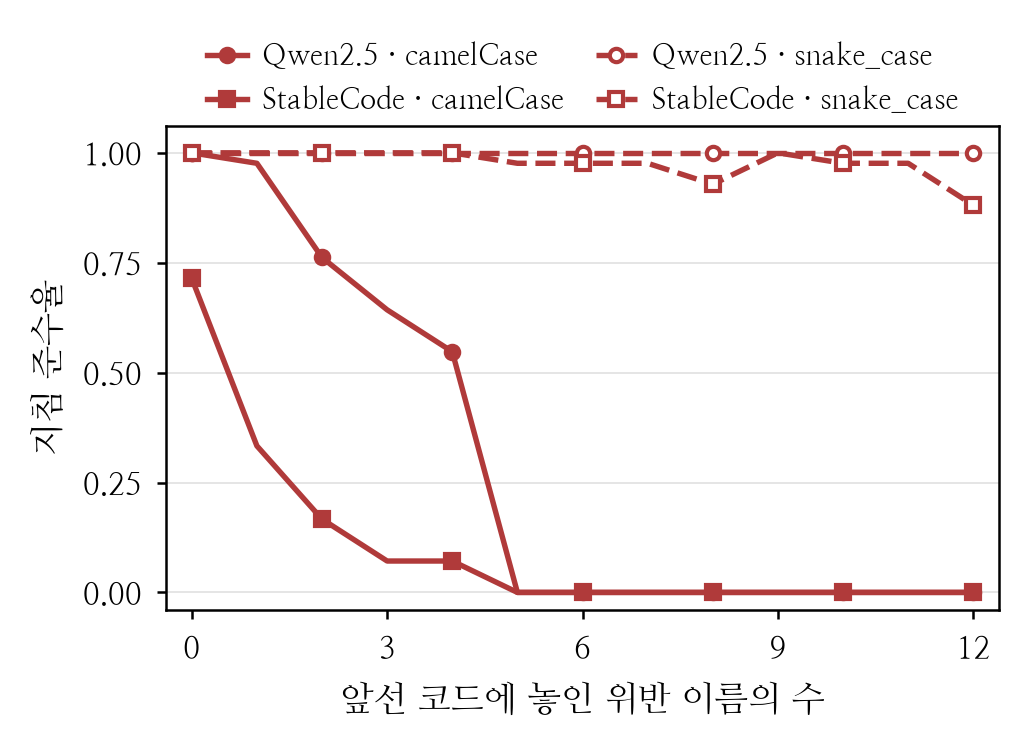
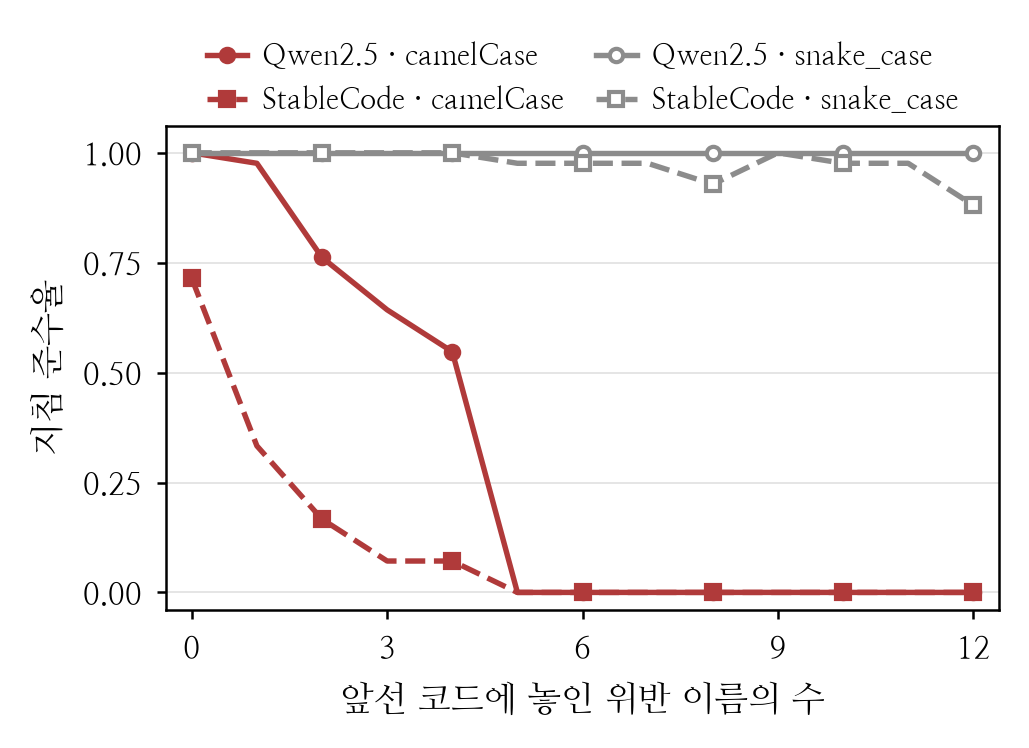
그림 1의 색을 지침 방향으로 바꾼다
색이 모델을 가르던 것을 지침 방향으로 옮긴다. 붉은 선은 기본 선호와
부딪히는 요구, 회색 선은 부딪히지 않는 요구이며 모델은 선 모양으로 가른다.
이 그림이 말하려는 것이 모델 차이가 아니라 방향 차이이므로 색이 그쪽에 붙어야 한다.

diff --git a/scripts/paper_figures_ko.py b/scripts/paper_figures_ko.py
@@ -135,10 +135,11 @@ def fig_cliff(out: Path):
             1.0 if r["metrics"]["extra"]["first_compliant"] else 0.0)
 
     fig, ax = plt.subplots(figsize=(3.3, 2.35))
-    series = [("qwen", "camel", C["qwen"], "-", "o", 1.0),
-              ("stability", "camel", C["stability"], "-", "s", 1.0),
-              ("qwen", "snake", C["qwen"], "--", "o", 0.0),
-              ("stability", "snake", C["stability"], "--", "s", 0.0)]
+    # 색은 지침 방향(기본 선호와 부딪히는가)을, 선 모양은 모델을 가른다.
+    series = [("qwen", "camel", RED, "-", "o", 1.0),
+              ("stability", "camel", RED, "--", "s", 1.0),
+              ("qwen", "snake", GRAY, "-", "o", 0.0),
+              ("stability", "snake", GRAY, "--", "s", 0.0)]
     for m, tgt, color, ls, mk, fill in series:
         k = (m, tgt)
         if k not in by:
